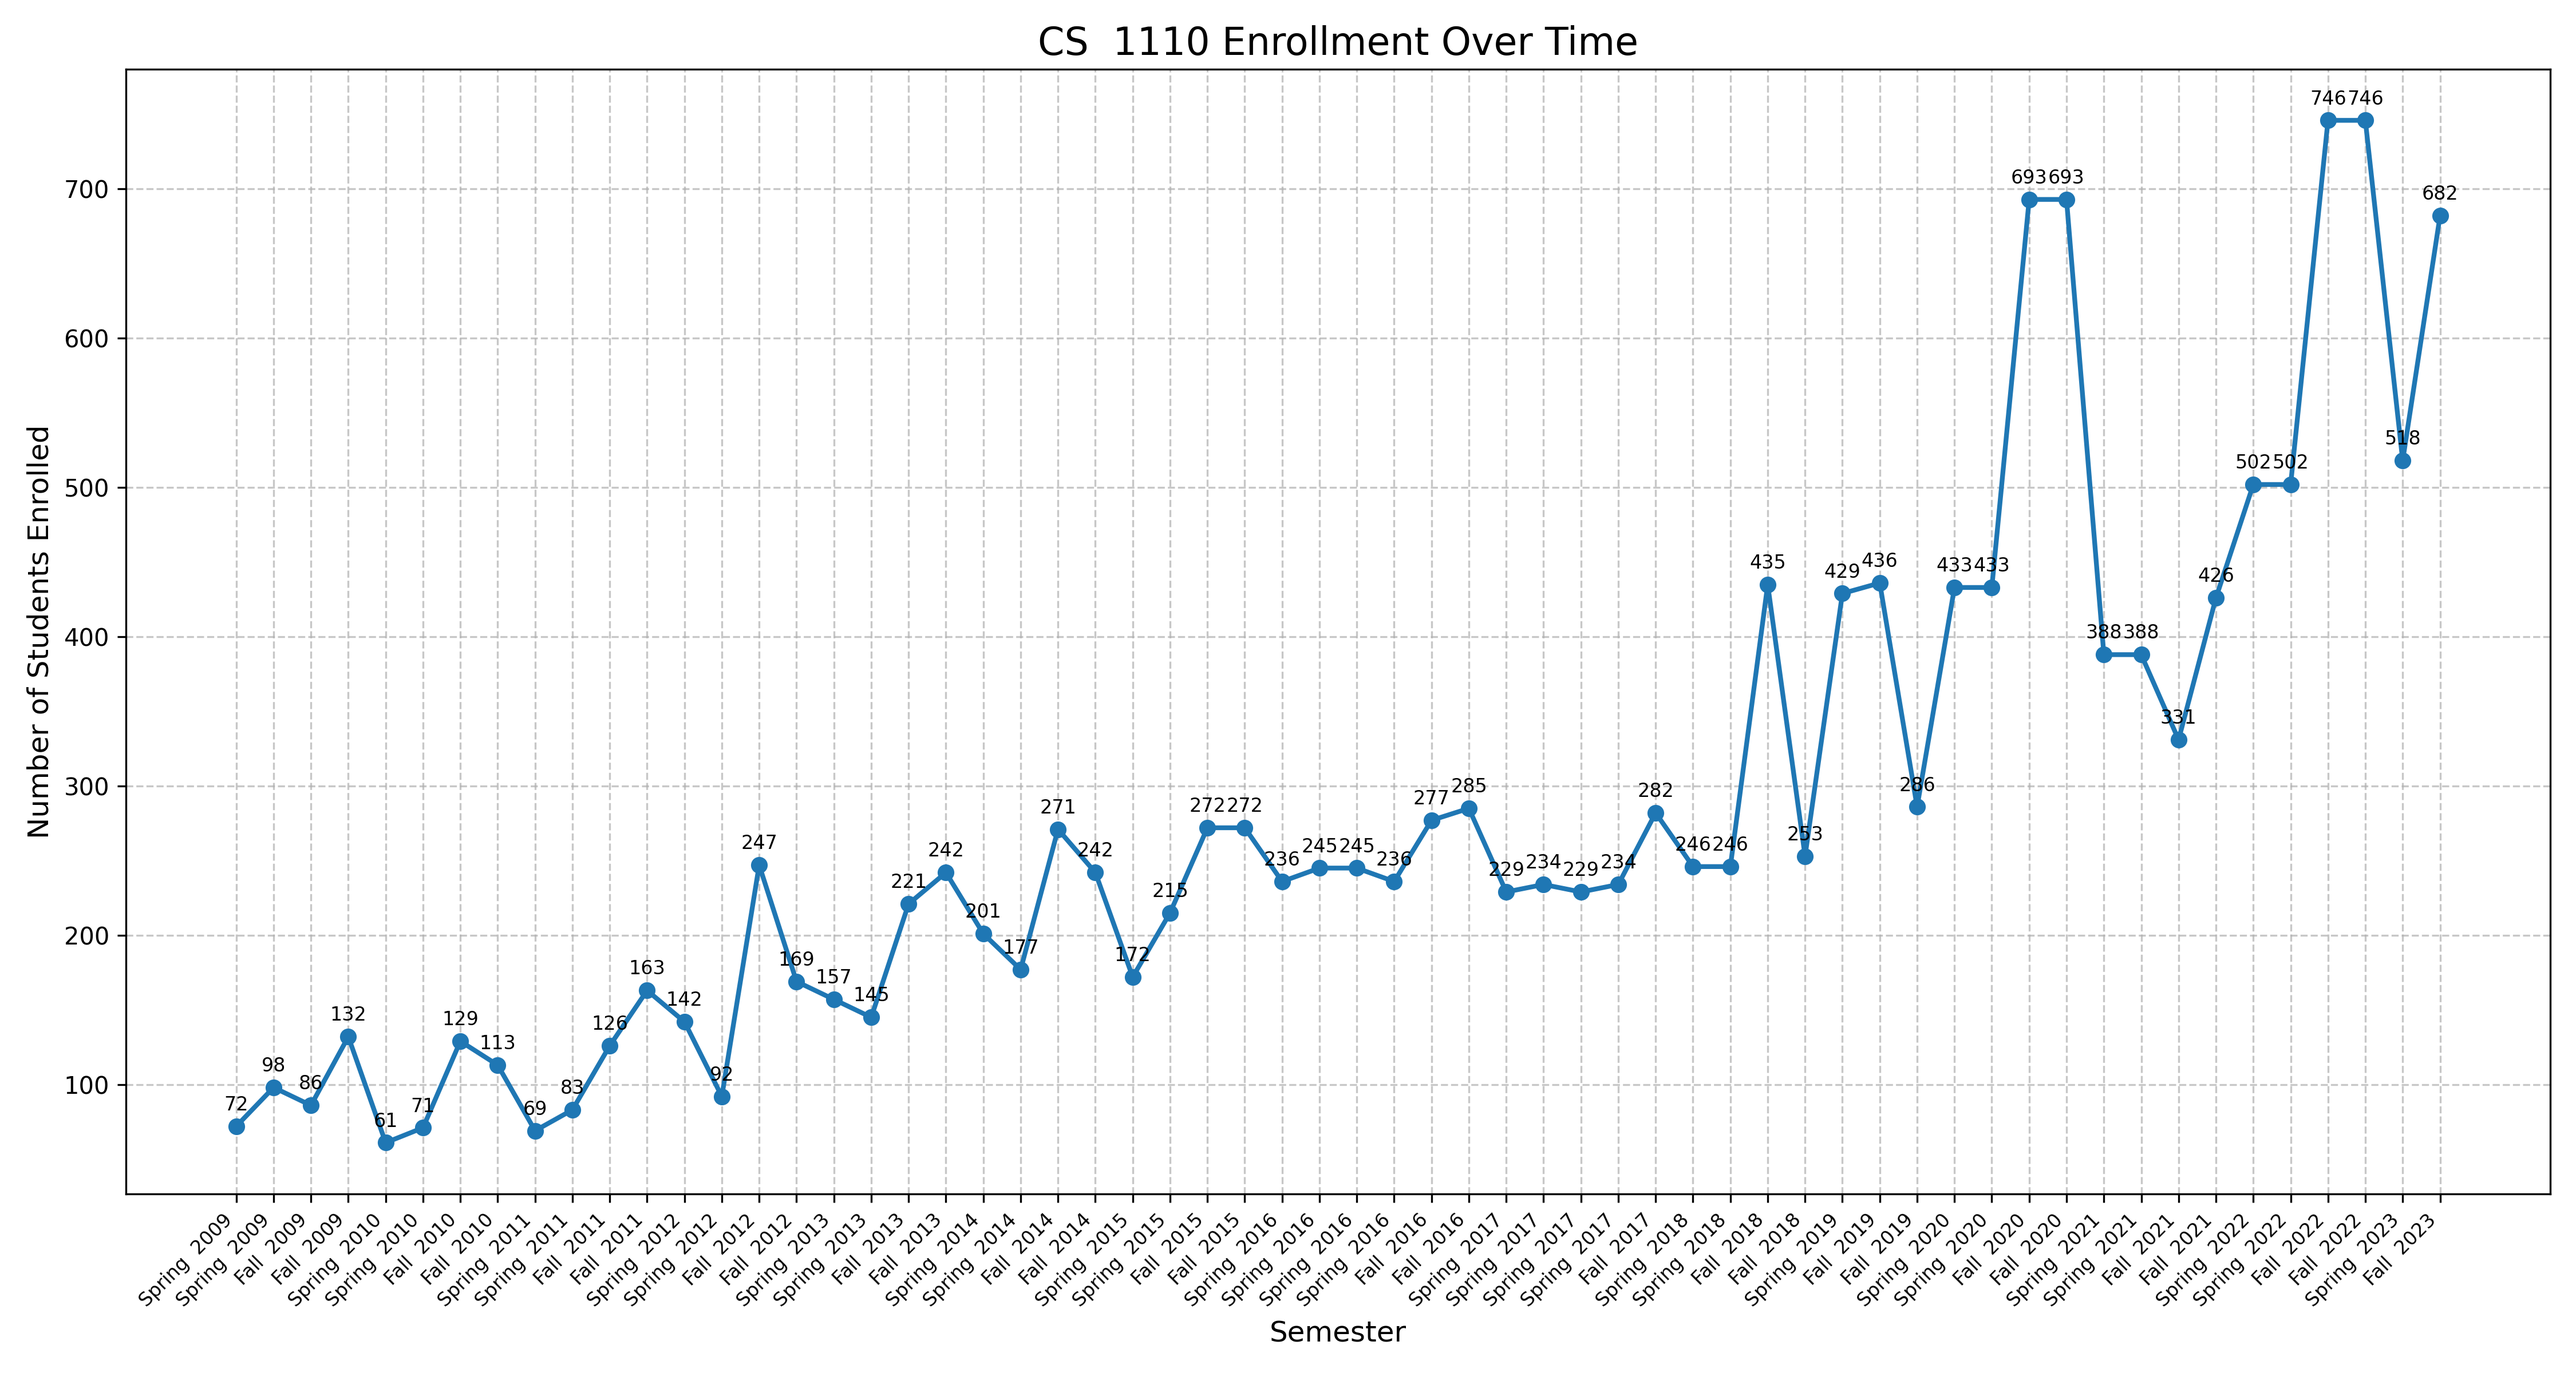
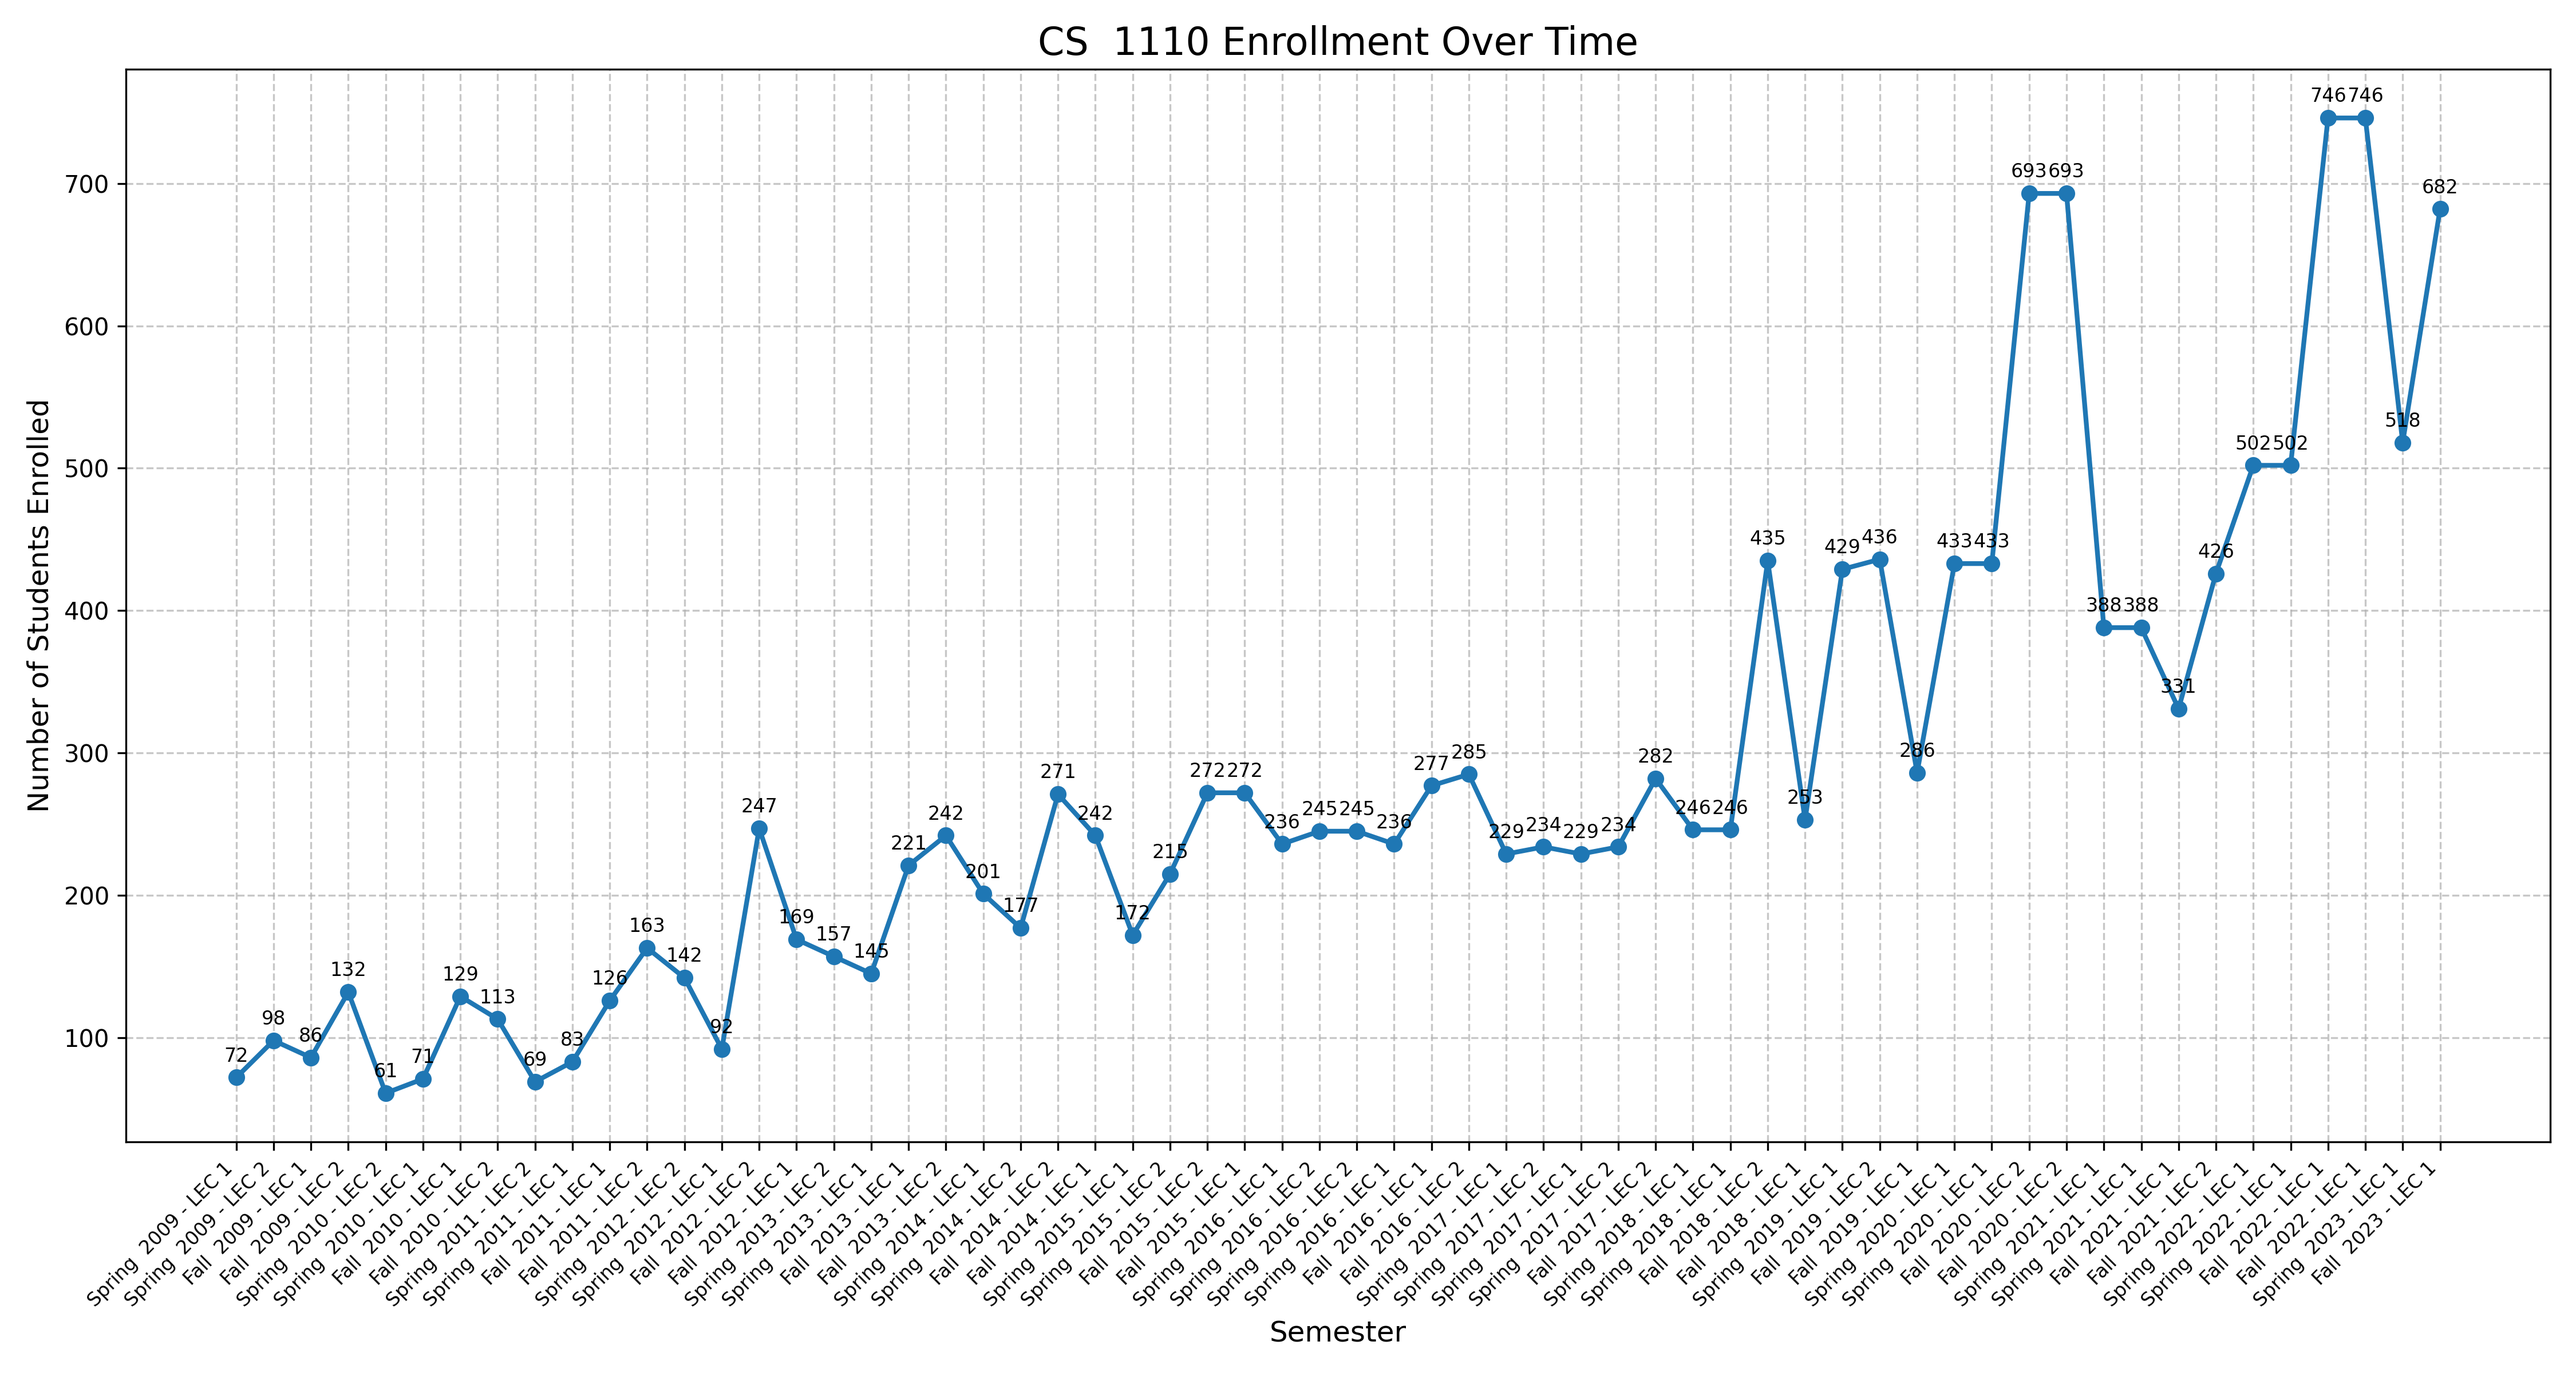
generalized code so that it can take in any course name

diff --git a/backend/dataAnalysis.py b/backend/dataAnalysis.py
@@ -1,6 +1,7 @@
 import json
 import pandas as pd
 import matplotlib.pyplot as plt
+import re
 
 def load_data():
     file_path = '/Users/ronaldjabouin/Documents/ProfessorPeek/backend/evaluation_results.json'
@@ -18,39 +19,46 @@ def semester_sort_key(semester):
     season, year = semester.split('  ')  # Split on double space
     return (int(year), 0 if season == 'Spring' else 1)
 
-def analyze_cs1110_enrollment(data):
-    cs1110_data = []
+def extract_lecture_number(course_name):
+    match = re.search(r'Lec\s*(\d+)', course_name, re.IGNORECASE)
+    return match.group(1) if match else ''
+
+def analyze_course_enrollment(data, course_prefix):
+    course_data = []
     for entry in data:
         course_info = entry.get('course', {})
         course_name = course_info.get('name', '')
-        if 'CS  1110' in course_name:  # Note the two spaces
+        if course_prefix in course_name:
             semester = entry.get('semester', 'Unknown')
             enrolled = entry.get('enrolled')
+            lecture_number = extract_lecture_number(course_name)
             if semester != 'Unknown' and enrolled is not None:
-                cs1110_data.append({
+                course_data.append({
                     'semester': semester,
                     'enrolled': enrolled,
-                    'instructor': course_info.get('instructor', 'Unknown')
+                    'instructor': course_info.get('instructor', 'Unknown'),
+                    'lecture_number': lecture_number
                 })
     
-    if not cs1110_data:
-        print("No data found for CS  1110")
+    if not course_data:
+        print(f"No data found for {course_prefix}")
         return None
     
-    df = pd.DataFrame(cs1110_data)
+    df = pd.DataFrame(course_data)
+    df['semester_with_lecture'] = df['semester'] + ' - LEC ' + df['lecture_number']
     df = df.sort_values('semester', key=lambda x: x.map(semester_sort_key))
     
     return df
 
-def plot_cs1110_enrollment(df):
+def plot_course_enrollment(df, course_prefix):
     plt.figure(figsize=(15, 8))
     plt.plot(range(len(df)), df['enrolled'], marker='o', linestyle='-', linewidth=2, markersize=6)
-    plt.title('CS  1110 Enrollment Over Time', fontsize=16)
+    plt.title(f'{course_prefix} Enrollment Over Time', fontsize=16)
     plt.xlabel('Semester', fontsize=12)
     plt.ylabel('Number of Students Enrolled', fontsize=12)
     
     # Adjust x-axis labels
-    plt.xticks(range(len(df)), df['semester'], rotation=45, ha='right', fontsize=8)
+    plt.xticks(range(len(df)), df['semester_with_lecture'], rotation=45, ha='right', fontsize=8)
     
     # Add value labels for each point with smaller font
     for i, txt in enumerate(df['enrolled']):
@@ -60,25 +68,25 @@ def plot_cs1110_enrollment(df):
     
     plt.grid(True, linestyle='--', alpha=0.7)
     plt.tight_layout()
-    plt.savefig('cs1110_enrollment_trend.png', dpi=300)  # Increased DPI for better quality
+    plt.savefig(f'{course_prefix.replace(" ", "_").lower()}_enrollment_trend.png', dpi=300)
     plt.close()
 
-def provide_insights(df):
+def provide_insights(df, course_prefix):
     if df is None or df.empty:
-        return "No insights available for CS  1110 due to lack of data."
+        return f"No insights available for {course_prefix} due to lack of data."
 
     total_semesters = len(df)
     avg_enrollment = df['enrolled'].mean()
     max_enrollment = df['enrolled'].max()
     min_enrollment = df['enrolled'].min()
-    max_semester = df.loc[df['enrolled'].idxmax(), 'semester']
-    min_semester = df.loc[df['enrolled'].idxmin(), 'semester']
+    max_semester = df.loc[df['enrolled'].idxmax(), 'semester_with_lecture']
+    min_semester = df.loc[df['enrolled'].idxmin(), 'semester_with_lecture']
     
     recent_trend = 'increasing' if df['enrolled'].iloc[-1] > df['enrolled'].iloc[-2] else 'decreasing'
     
     insights = f"""
-    Insights into CS  1110 Enrollment:
-    1. Data spans {total_semesters} semesters.
+    Insights into {course_prefix} Enrollment:
+    1. Data spans {total_semesters} semesters/sections.
     2. Average enrollment: {avg_enrollment:.2f} students.
     3. Highest enrollment: {max_enrollment} students in {max_semester}.
     4. Lowest enrollment: {min_enrollment} students in {min_semester}.
@@ -88,20 +96,22 @@ def provide_insights(df):
     return insights
 
 def main():
+    course_prefix = "CS  3110"  # Change this string to analyze different courses
+    
     data = load_data()
     if not data:
         print("No data to analyze. Exiting.")
         return
 
-    df = analyze_cs1110_enrollment(data)
+    df = analyze_course_enrollment(data, course_prefix)
     
     if df is not None and not df.empty:
-        plot_cs1110_enrollment(df)
-        insights = provide_insights(df)
+        plot_course_enrollment(df, course_prefix)
+        insights = provide_insights(df, course_prefix)
         print(insights)
-        print("Analysis complete. Check 'cs1110_enrollment_trend.png' for the enrollment trend visualization.")
+        print(f"Analysis complete. Check '{course_prefix.replace(' ', '_').lower()}_enrollment_trend.png' for the enrollment trend visualization.")
     else:
-        print("No analysis could be performed for CS  1110 due to lack of data")
+        print(f"No analysis could be performed for {course_prefix} due to lack of data")
 
 if __name__ == "__main__":
     main()
